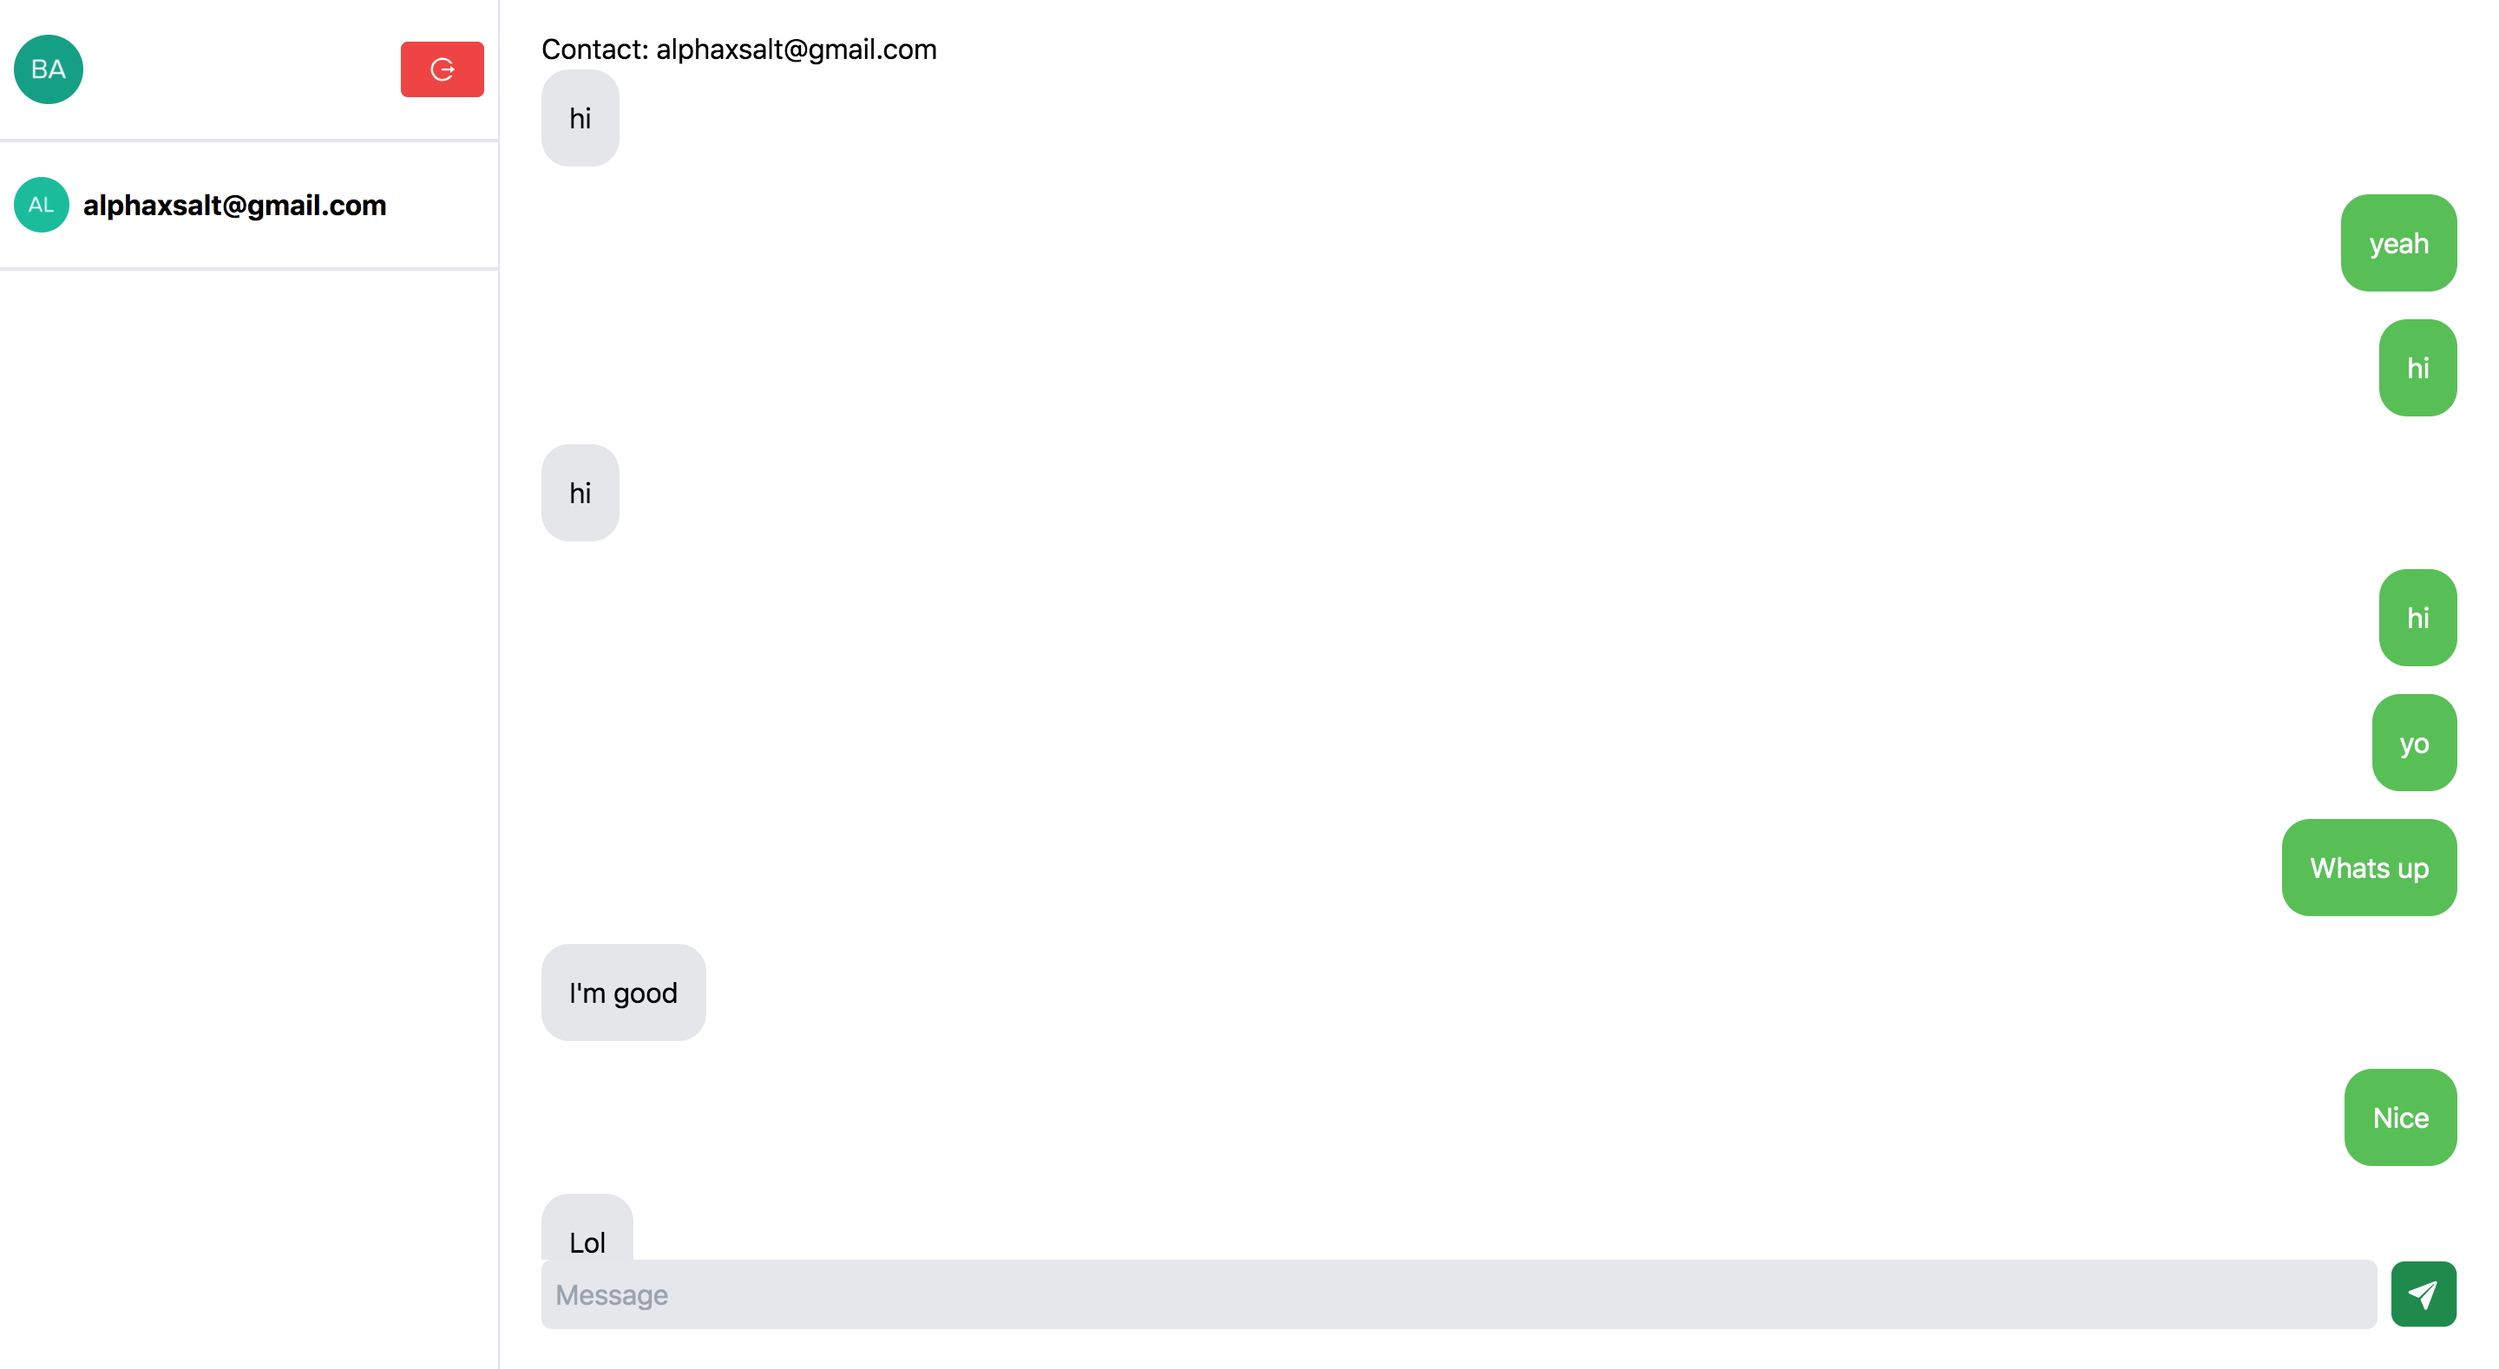
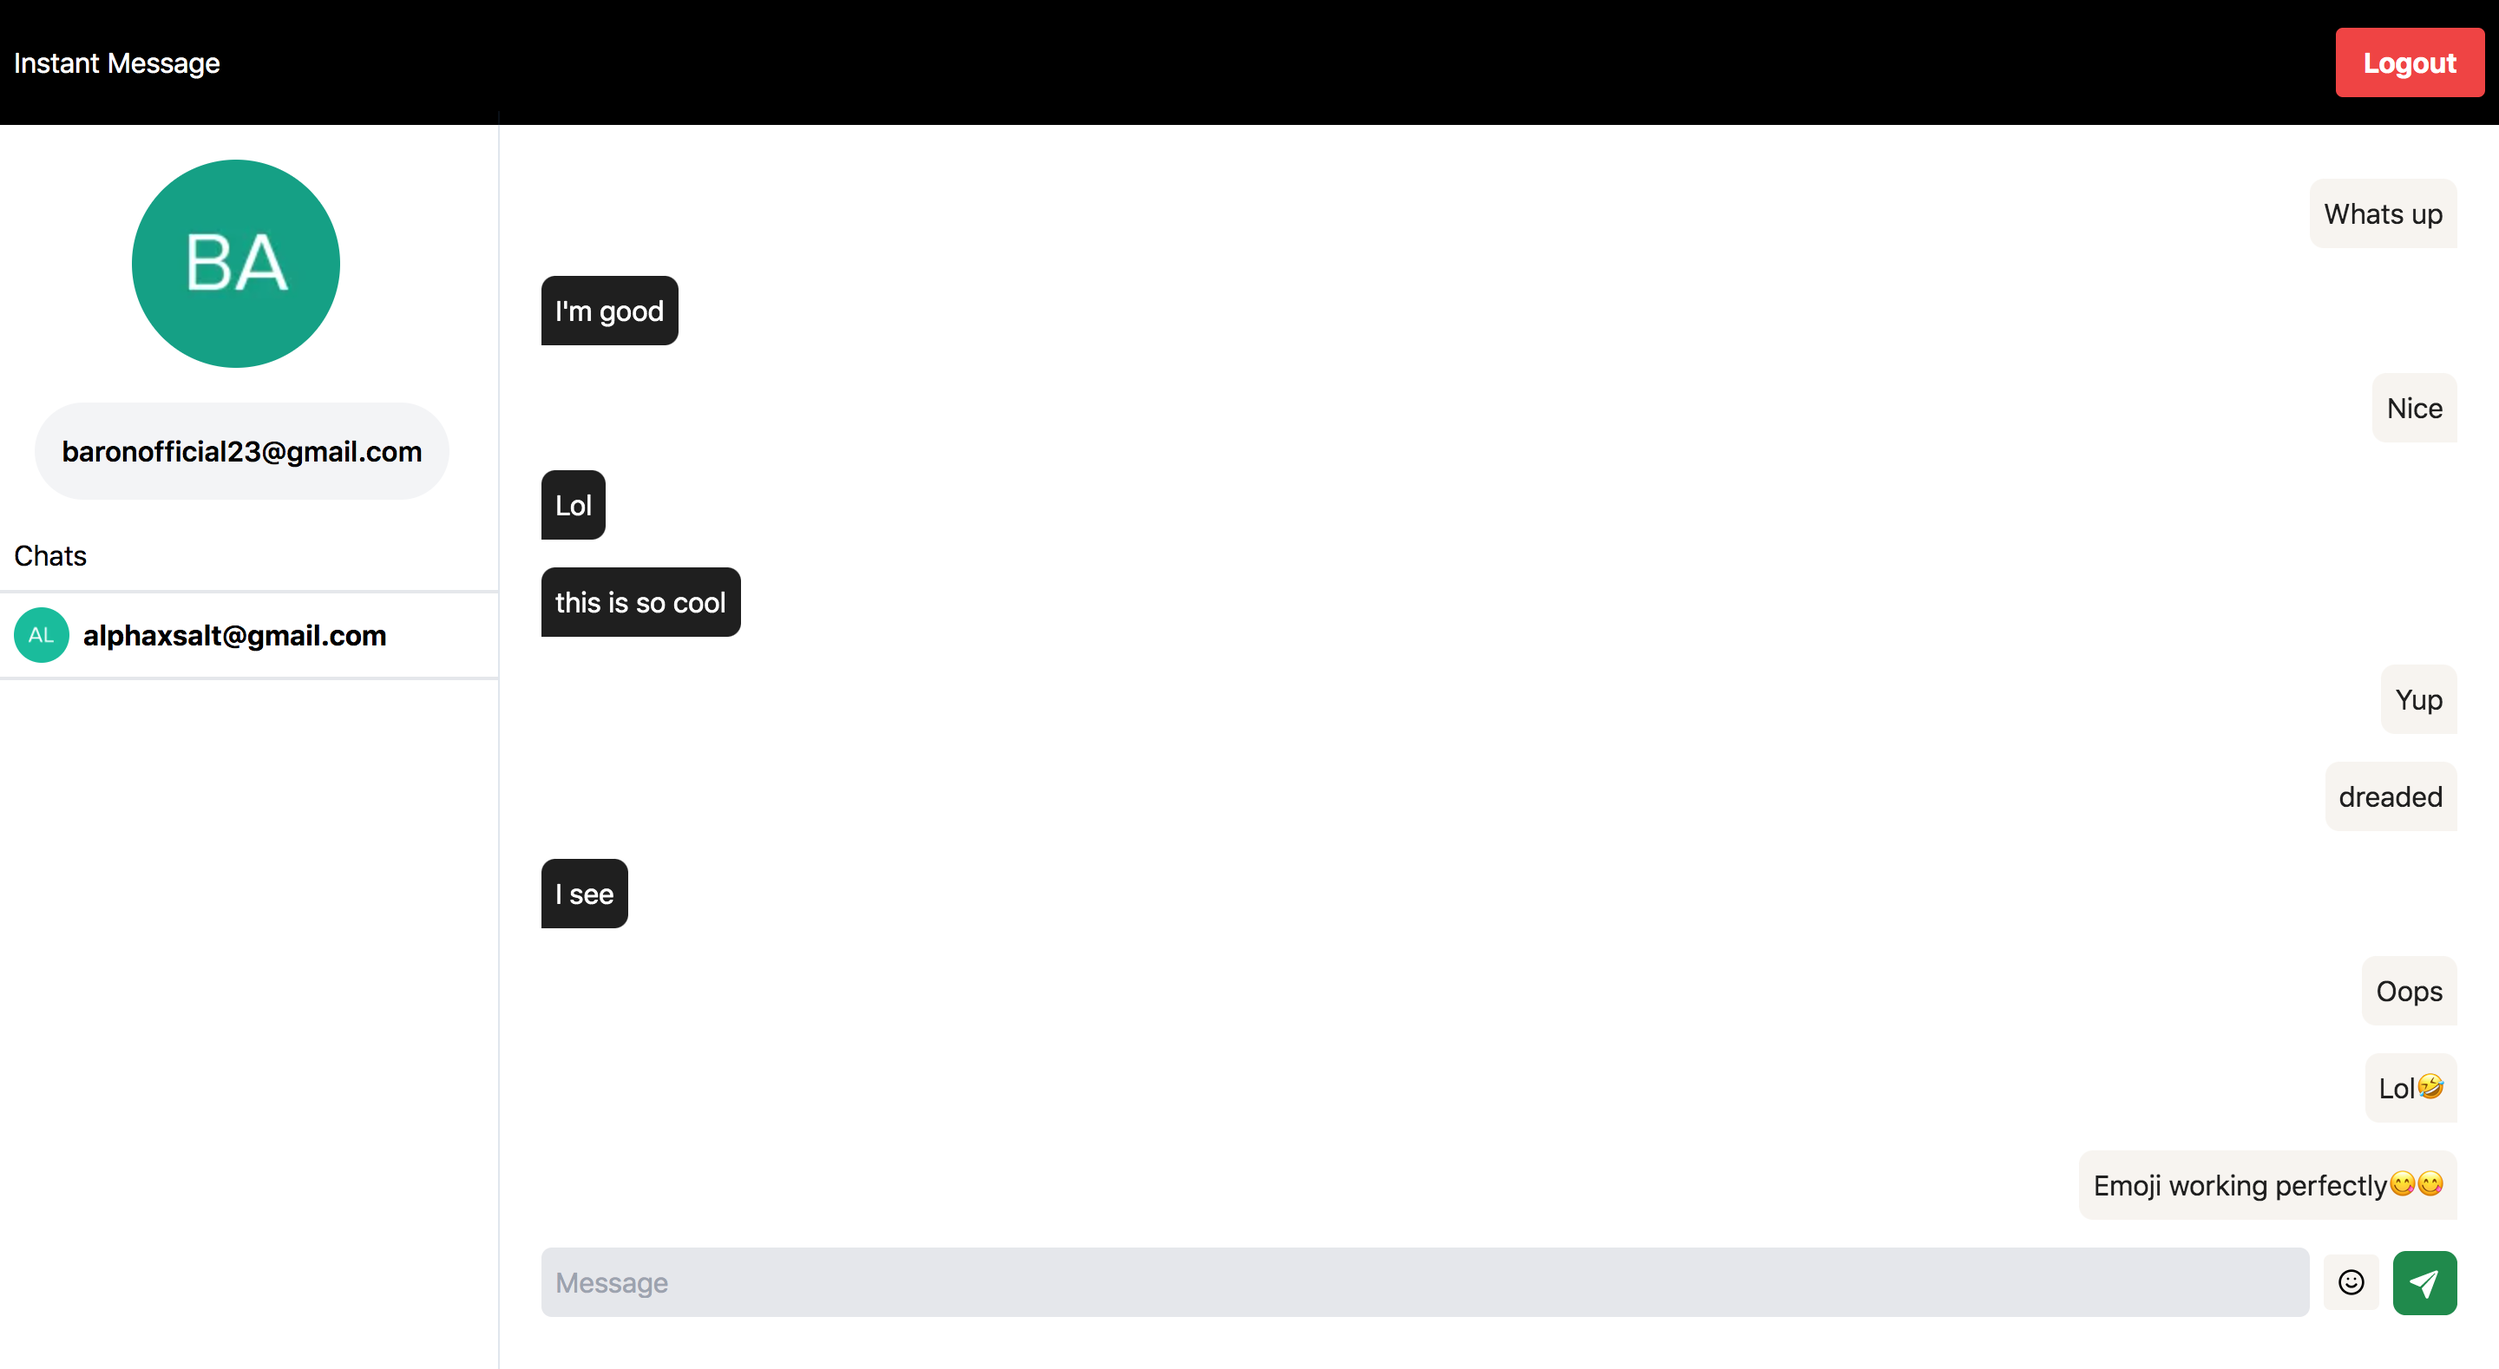
refactor: clean up code, feat: added emoji picker, style: revamp UI

diff --git a/client/src/components/chats.tsx b/client/src/components/chats.tsx
@@ -1,7 +1,8 @@
 import { FC, Fragment, useEffect, useState } from "react"
 import {animateScroll} from 'react-scroll'
 import { useMessagesBetweenTwoEntitiesQuery, usePostMessageMutation, MessagesBetweenTwoEntitiesDocument, MessagesBetweenTwoEntitiesQuery } from "../generated/graphql"
-
+import Picker, { SKIN_TONE_MEDIUM_DARK, IEmojiData } from 'emoji-picker-react';
+import {FiSmile} from 'react-icons/fi'
 
 interface IChatProps {
     currentUser: string
@@ -32,14 +33,14 @@ const MessagesComponent: FC<IMessageComponentProps> = ({currentUser, destination
     }, [subscription])
 
 
+
     if(!messages) return null
 
     return (
-        <div style={{maxHeight: '90vh', minHeight: '90vh', overflowY: 'auto'}} id="chatbox">
+        <div style={{maxHeight: '80vh', minHeight: '80vh', overflowY: 'auto'}} id="chatbox" className="hide-scroll">
             
-            {destinationUser.length > 0 ?
+            {destinationUser.length > 0 &&
             <Fragment>
-            <p>Contact: {destinationUser}</p>
              {messages.messagesBetweenTwoEntities?.map((message) => (
                 <div key={(message.createdAt || Date.now().toString()) + Math.random() * Date.now()} style={{
                 display: 'flex', 
@@ -47,10 +48,13 @@ const MessagesComponent: FC<IMessageComponentProps> = ({currentUser, destination
                 paddingBottom: '1em', 
                 }}>
                     <div style={{
-                        background: currentUser === message.origin_user ? "#58bf56" : "#e5e6ea", 
-                        color: currentUser === message.origin_user ? "white" : "black", 
-                        padding: '1em',
-                        borderRadius: '1em', 
+                        background: currentUser === message.origin_user ? "#F7F4F0" : "#1F1F1F", 
+                        color: currentUser === message.origin_user ? "#1F1F1F" : "white", 
+                        padding: '.5em',
+                        borderTopRightRadius:'.5em', 
+                        borderTopLeftRadius:  '.5em', 
+                        borderBottomRightRadius: currentUser === message.origin_user ? undefined : '.5em', 
+                        borderBottomLeftRadius: currentUser === message.origin_user ? '.5em' : undefined, 
                         maxWidth: '60%'
                     }}>
                         {message.content}
@@ -58,10 +62,6 @@ const MessagesComponent: FC<IMessageComponentProps> = ({currentUser, destination
                 </div>
             ))}
             </Fragment>
-
-            :
-
-            <p className="mx-auto">Start a chat</p>
             }
             
         </div>
@@ -73,7 +73,18 @@ export const Chats: FC<IChatProps> = ({currentUser, destinationUser}) => {
     const [content, setContent] = useState("")
     const {subscribeToMore, data, error} = useMessagesBetweenTwoEntitiesQuery({variables: {from: currentUser, to: destinationUser}})
     const [PostMessage] = usePostMessageMutation()
-    
+    const [showEmojiPicker, setShowEmojiPicker] = useState(false)
+    const [chosenEmoji, setChosenEmoji] = useState<IEmojiData | undefined>();
+
+    const onEmojiClick = (event: React.MouseEvent<Element, MouseEvent>, data: IEmojiData) => {
+        console.log(chosenEmoji)
+        console.log(event)
+        console.log(data)
+        setChosenEmoji(data);
+        let x = content
+        x += data.emoji
+        setContent(x)
+    };
 
     const sendMessage = () => {
         console.log(currentUser, content, destinationUser)
@@ -82,40 +93,64 @@ export const Chats: FC<IChatProps> = ({currentUser, destinationUser}) => {
                 variables: {from: currentUser, content: content, to: destinationUser}
             })
             setContent("")
+            setShowEmojiPicker(false)
         }
     }
 
-    const subscribeToNewChats = () => {
-		if (subscribeToMore) {
+    let subscribeToNewChats = () => {
+		if (currentUser && destinationUser && subscribeToMore !== undefined) {
 			subscribeToMore({
                 document: MessagesBetweenTwoEntitiesDocument,
                 variables: {from: currentUser, to: destinationUser},
                 updateQuery: (MessagesBetweenTwoEntitiesDocument, { subscriptionData }) => {
-                    console.log({MessagesBetweenTwoEntitiesDocument})
                     return subscriptionData.data
                 }
             })
 		}
 	}
 
+    useEffect(() => {
+        setShowEmojiPicker(false)
+    }, [])
 
-    if(!data) return null
-    else if(error) return null
+
+    if(error) return null
+    else if(!data) {
+        return (
+            <Fragment>
+                <div style={{position: 'fixed', left: '20%', width: '80%'}} className="px-6 pt-4">
+                    <div className="min-h-100 w-auto relative">
+                        <p>Start a new chat</p>
+                    </div>
+                </div>
+            </Fragment>
+        )
+    }
     return (
         <div style={{position: 'fixed', left: '20%', width: '80%'}} className="px-6 pt-4">
             <div className="min-h-100 w-auto relative">
-                <MessagesComponent currentUser={currentUser} destinationUser={destinationUser} messages={data}
-                    subscription={subscribeToNewChats} />
-                <div className="flex flex-row justify-between items-center">
-                    <div className='w-full mr-2'>
-                        <input onKeyUp={e => {
-                            if(e.key === 'Enter') sendMessage()
-                        }} type="text" placeholder="Message"  value={content} className="w-full bg-gray-200 py-2 px-2 rounded-md" onChange={e => setContent(e.target.value)} />
-                    </div>
-                    <div className="flex flex-row">
-                        <img className="cursor-pointer" alt="send" src="/img/send.svg" onClick={sendMessage}/>
-                    </div>
-                </div>
+                {data && currentUser && destinationUser && subscribeToNewChats !== undefined &&
+                    <Fragment>
+                        <MessagesComponent currentUser={currentUser} destinationUser={destinationUser} messages={data}subscription={subscribeToNewChats} />
+                        <div className="flex flex-row justify-between items-center">
+                            <div className='w-full mr-2'>
+                                <input onKeyUp={e => {
+                                    if(e.key === 'Enter') sendMessage()
+                                }} type="text" placeholder="Message"  value={content} className="w-full bg-gray-200 py-2 px-2 rounded-md" onChange={e => setContent(e.target.value)} />
+                            </div>
+                            {showEmojiPicker && <div style={{position: 'absolute', bottom: '3em', right: 0}}>
+                                <Picker onEmojiClick={onEmojiClick}  skinTone={SKIN_TONE_MEDIUM_DARK}/>
+                            </div>}
+                            <div className="flex flex-row px-2 py-2 mr-2 rounded" style={{backgroundColor: '#F7F4F0'}}>
+                                <span className="cursor-pointer" onClick={() => setShowEmojiPicker(!showEmojiPicker)}><FiSmile /></span>
+                            </div>
+                            <div className="flex flex-row">
+                                <img className="cursor-pointer" alt="send" src="/img/send.svg" onClick={sendMessage}/>
+                            </div>
+                        </div>
+                    </Fragment>
+                }
+                
             </div>
         </div>
     )

diff --git a/client/src/components/contacts.tsx b/client/src/components/contacts.tsx
@@ -1,8 +1,6 @@
 
-import { FC, useEffect } from "react"
+import { FC } from "react"
 import { useUsersQuery } from "../generated/graphql"
-import { getInitials } from "../lib"
-import { LogoutButton } from "./auth-actions"
 import Contact from "./contact"
 import {DividerComponent} from "./divider"
 
@@ -15,26 +13,25 @@ type IContactsProps = {
 export const Contacts: FC<IContactsProps> = ({user, isAuthenticated, selectUser}) => {
     const {data} = useUsersQuery()
 
-    useEffect(()=> {
-        console.log(data)
-    }, [data])
     
     if(!data) return null
     return (
         <div style={{ padding: 0, margin: 0 }}>
         <div className="sidebar flex-initial">
             <div className="sidebar-sticky">
-                <div className="w-full flex flex-row justify-between items-center px-2">
-                    {user && user?.picture ? <img src={user.picture} className="w-10 h-10 rounded-full mr-4" alt="user-profile" /> : <span className="rounded-full py-4 px-4 text-center bg-gray-100 font-semibold mr-2">{getInitials(user.name)}</span>}
-                    
-                    {isAuthenticated && <LogoutButton />}
+                <div className="w-full flex flex-col justify-between items-center px-2">
+                    {user && user?.picture && <img src={user.picture} className="mt-2 rounded-full mr-4" alt="user-profile" />}
+
+                    {user && user?.name && <span className="mt-5 rounded-full py-4 px-4 text-center bg-gray-100 font-semibold mr-2">{user.name}</span>}
+
                 </div>  
             </div>
+
+            <div className="px-2 mt-5">Chats</div>
             <DividerComponent />
             {data?.users?.filter((u:any) => u.email !== user.email)?.map((user: any) => (
                 <Contact user={user} selectUser={selectUser} />
             ))}
-            
         </div>
         </div>
     )

diff --git a/client/src/containers/conversation.tsx b/client/src/containers/conversation.tsx
@@ -2,7 +2,7 @@ import { Chats, Contacts, LoginButton } from "../components"
 import { useAuth0 } from "@auth0/auth0-react";
 import { useState } from "react";
 import { useLogUserMutation } from "../generated/graphql";
-
+import {LogoutButton} from '../components/auth-actions'
 
 const Conversation = () => {
 
@@ -20,6 +20,10 @@ const Conversation = () => {
     else if(user !== undefined) {
         return (
                 <div className="container">
+                    <div className="w-screen py-4 bg-black px-2 text-white flex flex-row justify-between items-center">
+                      Instant Message
+                      {isAuthenticated && <LogoutButton />}
+                      </div>
                     <div className="flex flex-row justify-start gap-y-4">
                         {<Contacts user={user} isAuthenticated={isAuthenticated} selectUser={setDestinationUser} />}
                         <Chats currentUser={user.email} destinationUser={destinationUser}/>

diff --git a/client/src/components/auth-actions.tsx b/client/src/components/auth-actions.tsx
@@ -1,6 +1,5 @@
 import React, { FC } from "react";
 import { useAuth0 } from "@auth0/auth0-react";
-import {AiOutlineLogout} from 'react-icons/ai'
 
 export const LoginButton: FC = () => {
   const { loginWithRedirect } = useAuth0();
@@ -13,7 +12,7 @@ export const LogoutButton: FC = () => {
   
     return (
       <button className="bg-red-500 hover:bg-red-700 text-white font-bold py-2 px-4 rounded" onClick={() => logout({ returnTo: window.location.origin })}>
-        <AiOutlineLogout />
+        <span>Logout</span>
       </button>
     );
 };

diff --git a/client/src/styles/sidebar.css b/client/src/styles/sidebar.css
@@ -7,12 +7,13 @@
   width: 20%; /* Set the width of the sidebar */
   position: fixed; /* Fixed Sidebar (stay in place on scroll) */
   z-index: 999; /* Stay on top */
-  top: 0; /* Stay at the top */
+  top: 4em; /* Stay at the top */
   left: 0;
   /*background-color: #208A4C;  Black */
-  overflow-x: hidden; /* Disable horizontal scroll */
+  overflow-x: hidden;  /* Disable horizontal scroll */
   padding-top: 20px;
   border-right: 1px solid #3E649229;
+  overflow-y: scroll;
 }
 
 

diff --git a/client/src/styles/index.css b/client/src/styles/index.css
@@ -2,3 +2,14 @@
 @tailwind base;
 @tailwind components;
 @tailwind utilities;
+
+/* Hide scrollbar for Chrome, Safari and Opera */
+.hide-scroll::-webkit-scrollbar {
+    display: none;
+}
+  
+/* Hide scrollbar for IE, Edge and Firefox */
+.hide-scroll {
+    -ms-overflow-style: none;  /* IE and Edge */
+    scrollbar-width: none;  /* Firefox */
+}

diff --git a/client/src/components/divider.tsx b/client/src/components/divider.tsx
@@ -1,4 +1,4 @@
 import { FC } from "react";
 
 /** Divider component */
-export const DividerComponent: FC = () => <div className="border-b-2 my-5"></div>
+export const DividerComponent: FC = () => <div className="border-b-2 my-2"></div>

diff --git a/client/src/components/contact.tsx b/client/src/components/contact.tsx
@@ -7,7 +7,6 @@ interface IContactProps  {
 }
 
 export const Contact: FC<IContactProps> = ({user, selectUser}) => {
-    console.log(user)
     if(!user) return null
     return (
         <Fragment>

diff --git a/README.md b/README.md
@@ -5,3 +5,51 @@ Built with Typescript, React, NodeJS, graphql
 
 ![screenshot](shot.png)
 
+
+## Pre-requisites
+You'd need to grab the following environment variables for the server side
+```
+ENVIRONMENT
+PORT
+DB_PASS
+DB_NAME
+
+```
+
+
+Client side uses AUth0 for authentication
+First grab your Auth0 domain and clientId
+Then grab the following environment variables for the client side
+```
+REACT_APP_API_URL
+REACT_APP_WS_URL
+REACT_APP_KEY
+REACT_APP_AUTH_DOMAIN
+REACT_APP_AUTH_CID
+```
+
+## Run locally
+Install dependencies
+```
+yarn install-deps
+```
+
+Start server
+```
+yarn dev-server
+```
+
+Start client
+```
+yarn dev-client
+```
+
+## Build server and client for production
+```
+yarn build-server
+```
+
+```
+yarn build client
+```
+
